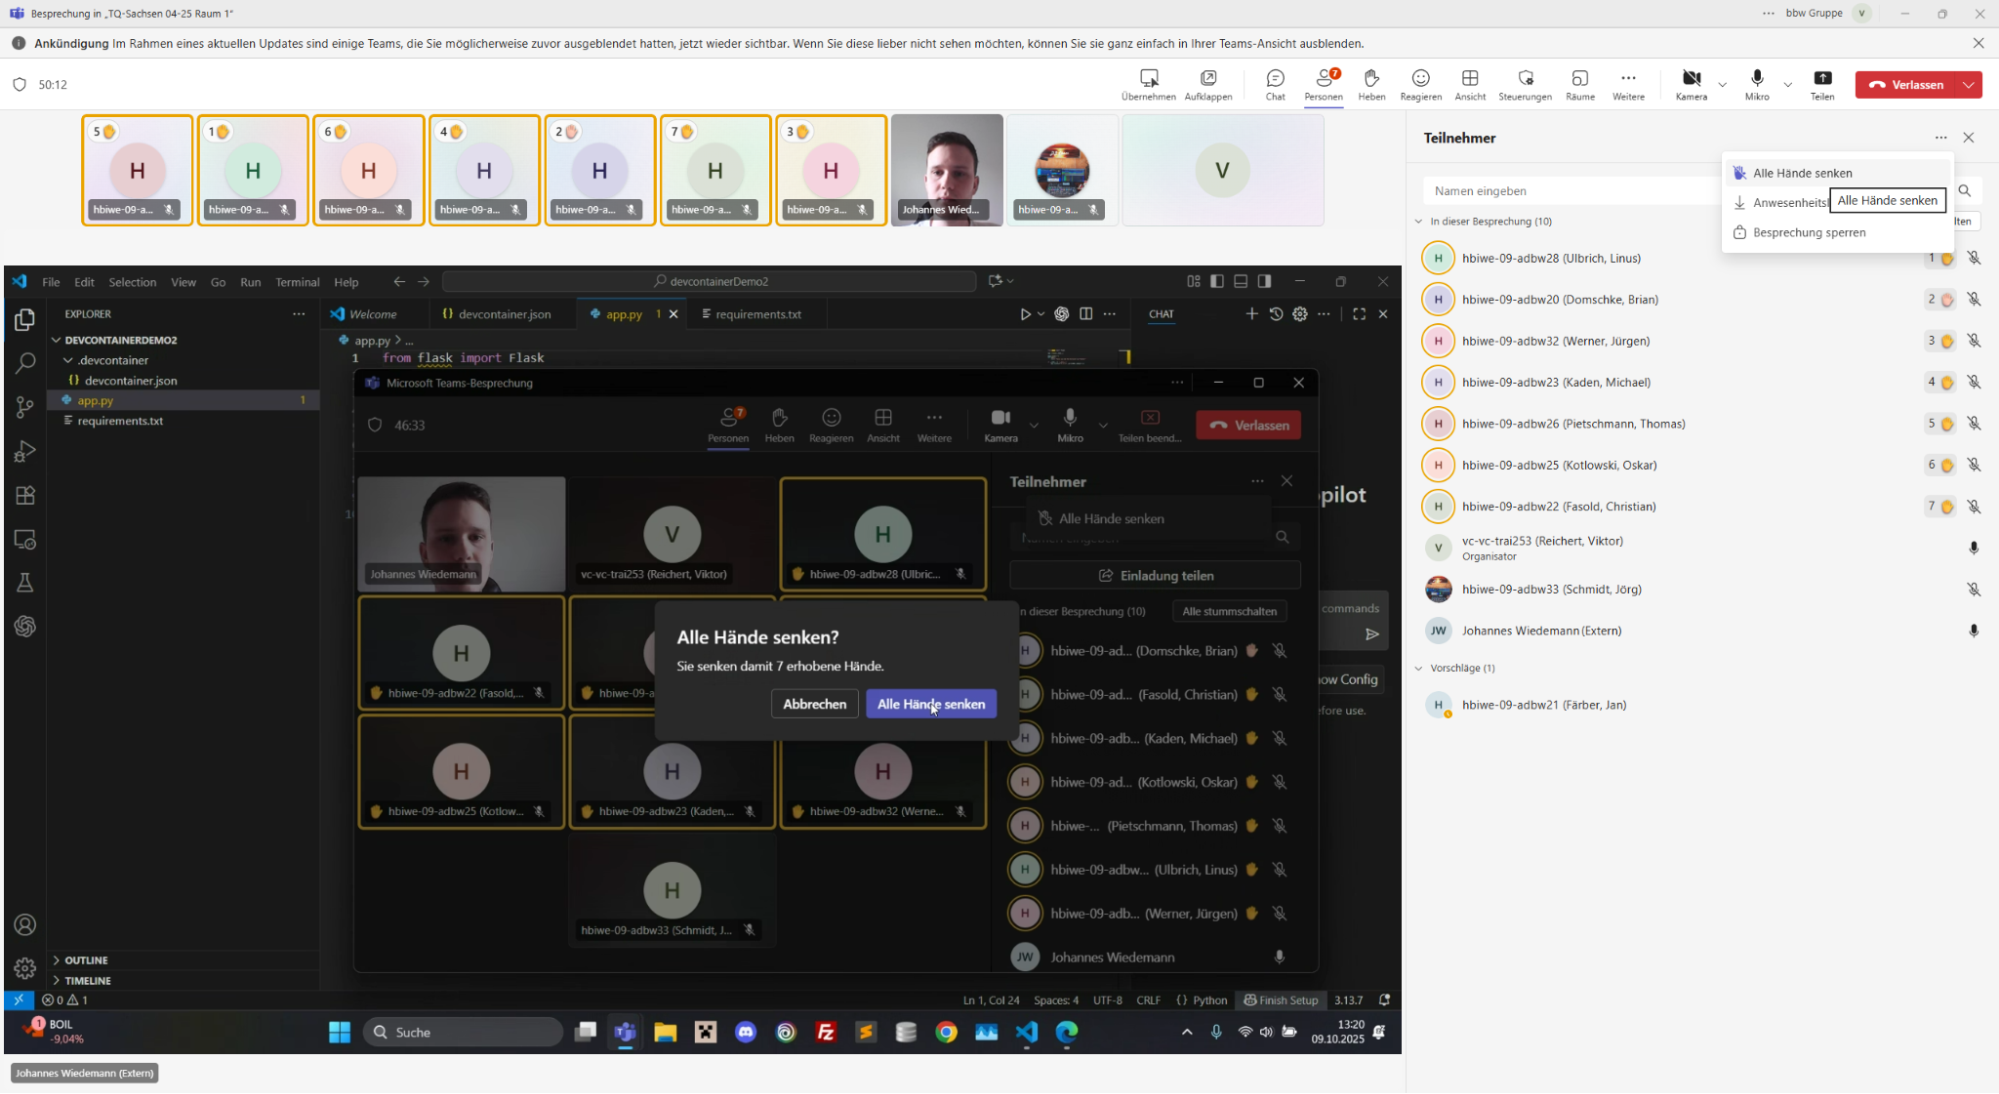
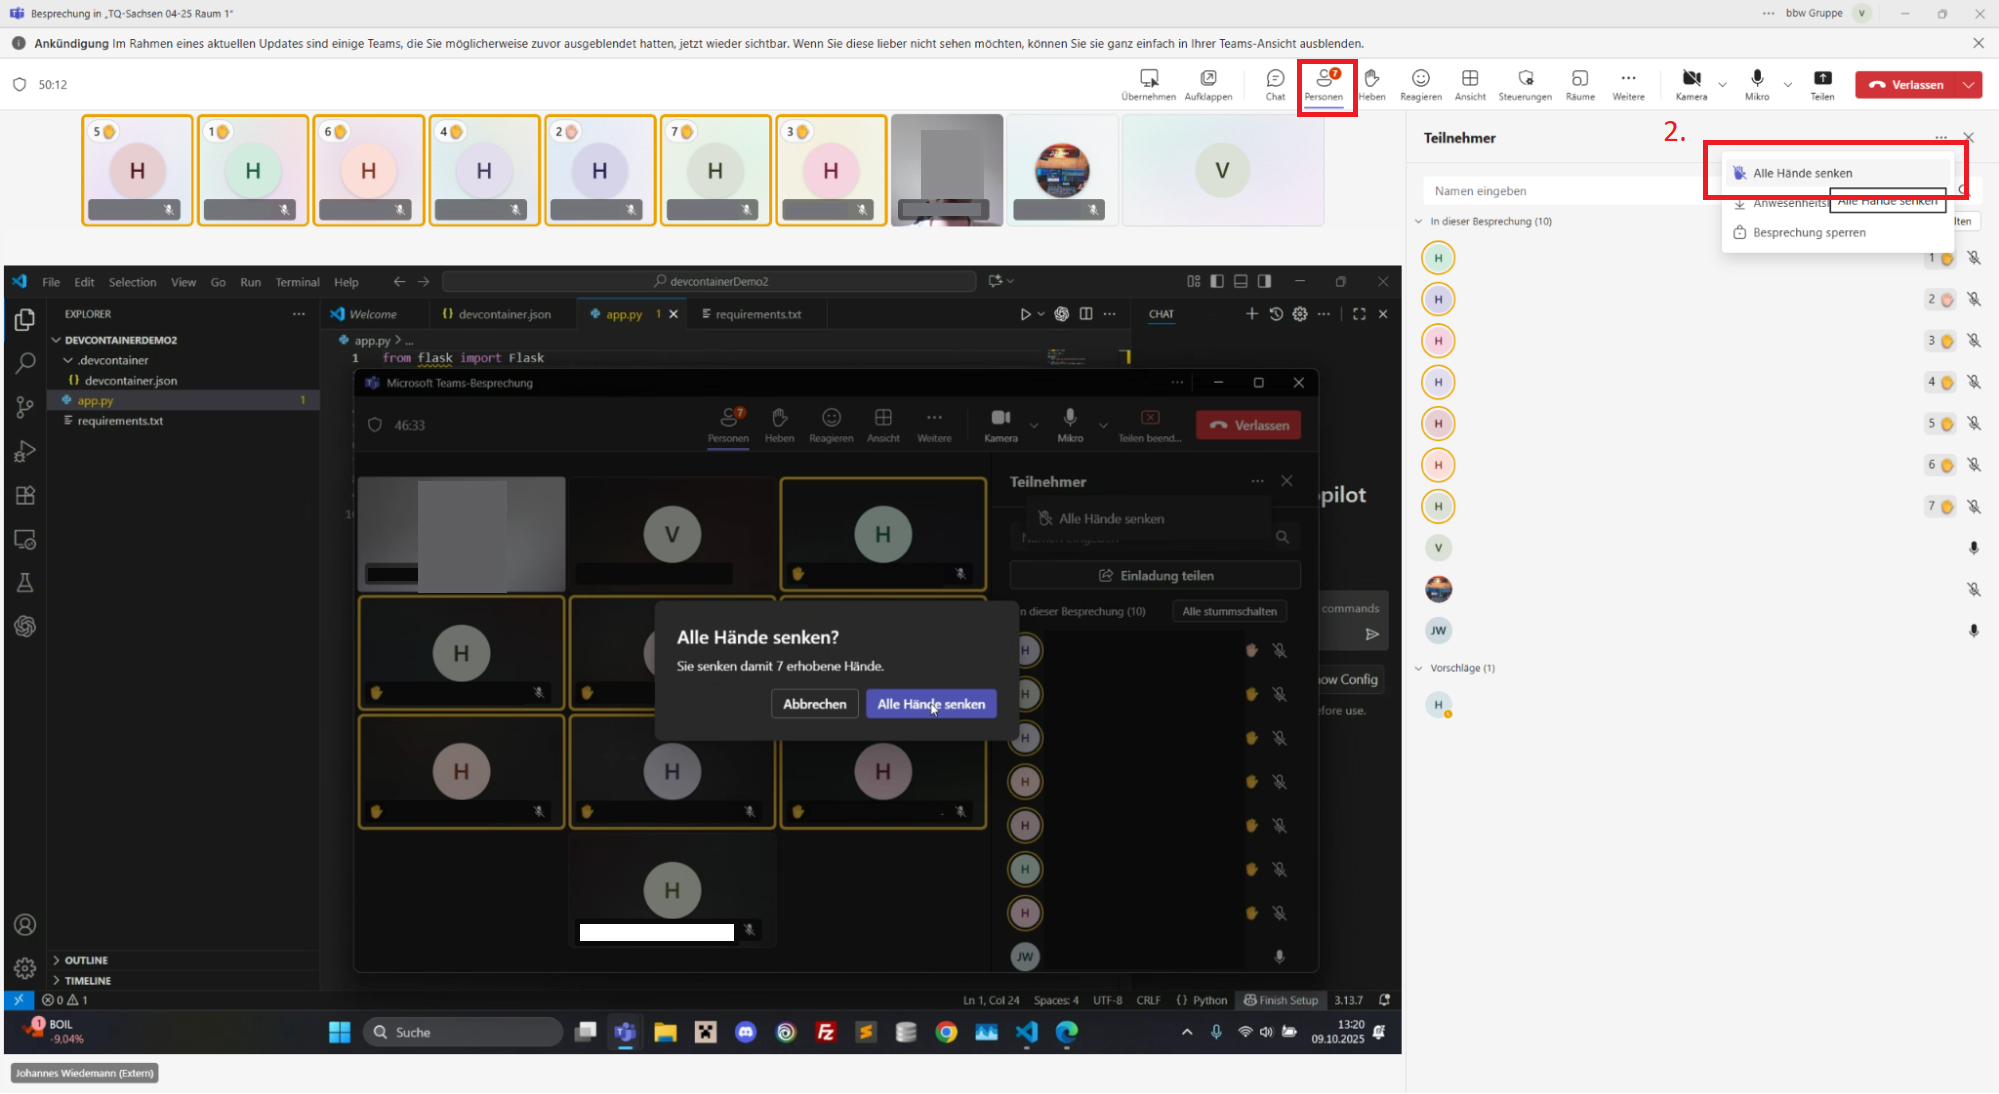
weitere tipps

diff --git a/docs/content/praktische_tipps.md b/docs/content/praktische_tipps.md
@@ -20,7 +20,6 @@
     ![](../assets/kontrolle_mini.png){ align=right }
     Wenn ein Teilnehmer seinen Bildschirm teilt, so kann über den Button `Übernehmen` ein Anfrage an den Teilnehmer gestellt werden, dass Du den Bildschirm steuern kannst. Diese muss noch von dem Teilnehmer bestätigt werden.
 
-
 !!! tip "Ist alles Installiert?"
     Hier ist die [:fontawesome-solid-external-link: Liste der Software](https://lms.bbw.de/mod/page/view.php?id=210255){ target=_blank rel="noopener noreferrer" }, die sich auf den Rechner der Teilnehmer befinden sollte.
     Wenn der Unterricht stark auf einer Software basiert, sollte schon einige Wochen vorher geprüft werden, ob diese Installation korrekt funktioniert. Dies kann z.B. geschehen, indem eine Mail an die Teilnehmer gesand wird, dass ein kleines Beispielskript und das Ergebnis einer erfolgreichen Durchführung, samt Mini-Anleitung enthält.
@@ -54,3 +53,25 @@
 !!! tip "Alle im Blick"
     ![mehr Kacheln](../assets/mehr_kacheln.png){ align=right }
     Um alle Teilnehmerkacheln gleichzeitig zu sehen, kann man die Anzahl der angezeigten Kacheln Unter `Ansicht` > `Max. Galariegröße auswählen` > `49 Personen` erhöhen. 
+
+!!! tip "Gruppenräume"
+    Als Eröffner des Meetings kannst du Gruppenräume erstellen!
+    
+    ![alt text](../assets/raume_erstellen_0.png)
+    
+    Um die Räume tatsächlich zu öffnen musst du noch auf den Button `Räume öffnen` klicken.
+    
+    ![alt text](../assets/raume_erstellen_1.png)
+
+!!! tip "Whiteboard"
+    
+    Du kannst direkt in Teams ein Whiteboard öffnen und mit den Teilnehmern nutzen,
+    indem du unter `Teilen` das `Microsoft Whiteboard` auswählst.
+
+    ![alt text](../assets/microsoft_whiteboard.png)
+
+    ---
+
+    Ein anderes Whiteboard-Tool ist [:fontawesome-solid-external-link: Excalidraw](https://excalidraw.com/){ target=_blank rel="noopener noreferrer" }. Auch hier kann ein Link über die :octicons-share-android-16:-Taste erstellt werden.     
+
+    ![alt text](../assets/excalidraw.png)

diff --git a/docs/index.md b/docs/index.md
@@ -28,9 +28,29 @@ Hier finden Sie wichtige Informationen zum Unterricht beim **bfz**.
 
 <!-- {{ youtube_video("https://www.youtube.com/embed/chPCpYNJe_Q?si=frU_Z_VwSGnPWEPF") }} -->
 
-!!! tip "Wichtigste Links"
+!!! tip "Checkliste"
 
-    [:fontawesome-solid-external-link: Portal für Unterrichtsnachweise](https://unterrichtsnachweis-service.bfz.de/trainerportal/){ target=_blank rel="noopener noreferrer" }
+    **Eine Woche vorher:**
+
+    * In welcher Klasse bin ich?
+    * Habe ich Zugang zu der Klasse? (wenn nein, [bfz](content/team.md#team) anschreiben)
+    * Funktionieren alle Tools bei der Klasse?
+
+    **Unterrichtsbeginn:**
+
+    * Raum rechtzeitig starten
+    * Innerhalb der ersten Stunde: [:fontawesome-solid-external-link: Anwesenheiten eintragen](https://unterrichtsnachweis-service.bfz.de/trainerportal/){ target=_blank rel="noopener noreferrer" }
+
+    **Unterrichtsende:**
+    
+    * [:fontawesome-solid-external-link: Finale Anwesenheiten und Unterrichtsinhalte eintragen](https://unterrichtsnachweis-service.bfz.de/trainerportal/){ target=_blank rel="noopener noreferrer" }
+
+    **Freitag:**
+
+    * LZK mit den Teilnehmern schreiben.
+    * Ergebnisse der LZK an [bfz und Viktor](content/team.md#team) senden.
+
+    ---
 
     [:fontawesome-solid-external-link: Lernmanagmentsystem (LMS) des bfz](https://lms.bbw.de/){ target=_blank rel="noopener noreferrer" }
 
@@ -46,3 +66,26 @@ Hier finden Sie wichtige Informationen zum Unterricht beim **bfz**.
 </div>
 
 </div>
+
+
+TODO: Unterlagen im LMS
+
+TODO: Bilder schwärzen
+
+TODO: Bilder mit Pfeilen versehen.
+
+TODO: Unterrichtsnachweis
+
+TODO: Tip: Unterräume öffnen
+
+TODO: Tip: Whiteboard in Teams benutzen
+
+TODO: LZK erstellen
+
+TODO: Unterrichtsnachweis
+
+TODO: Kalender der Klassen
+
+TODO: Lexikon der Prüfungen
+
+TODO: Unterricht starten/beenden (Anwesenheiten)

diff --git a/docs/content/unterlagen.md b/docs/content/unterlagen.md
@@ -6,7 +6,13 @@ Auf [:fontawesome-solid-external-link: dieser Webseite](https://lms.bbw.de/cours
 
 ## Unterlagen anderer Klassen
 
+1) Wähle zunächst eines der Teams aus.
+
 ![](../assets/allteams.png)
+
+2) Wähle eine Kanal aus (achte dabei auf ausgeblendete Kanäle). Jeder Kanal ist eine eigene Klasse mit eigenen Unterlagen
+
+3) Wähle `Dateien` aus. Jede Klasse ist selbst für die Organisation ihrer Unterlagen verantwortlich.
 
 ![](../assets/teams_dateien.png)
 

diff --git a/docs/content/team.md b/docs/content/team.md
@@ -1,4 +1,4 @@
-# Anprechparnter
+# Team
 
 | Team | Name | Mail im Teams-Chat des bfz | Anmerkungen |
 |-|-|-|-|
